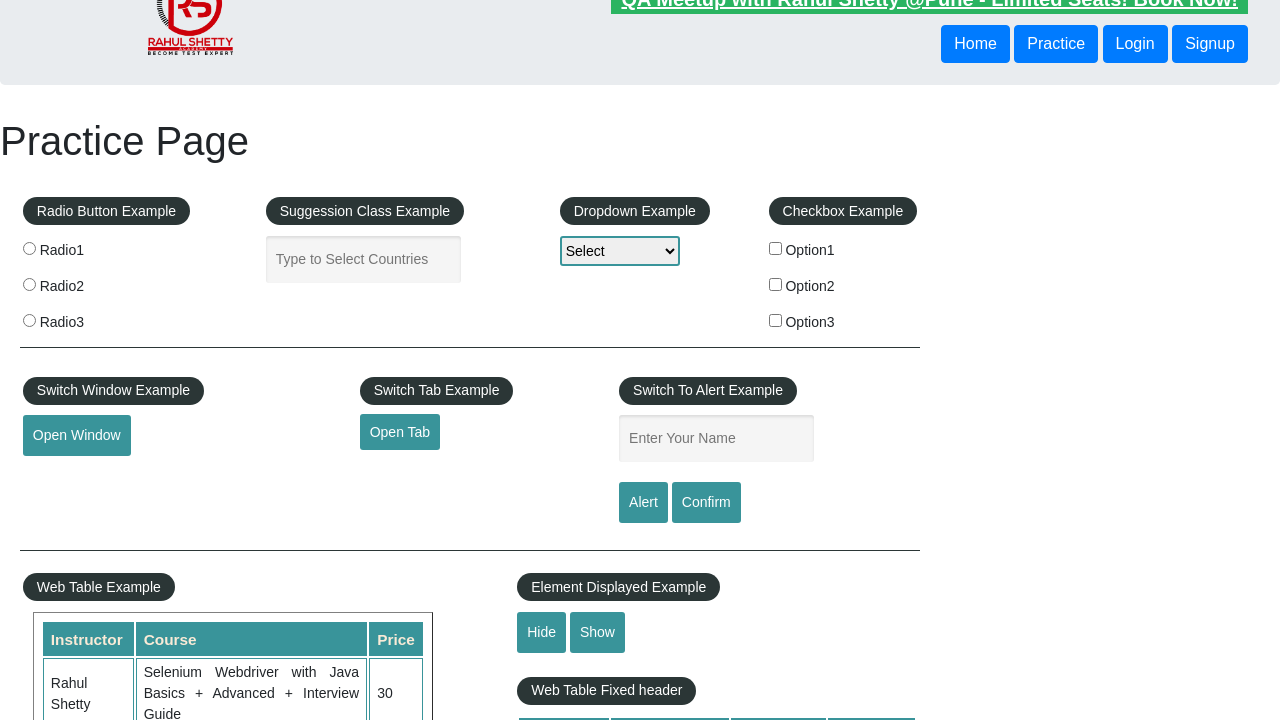
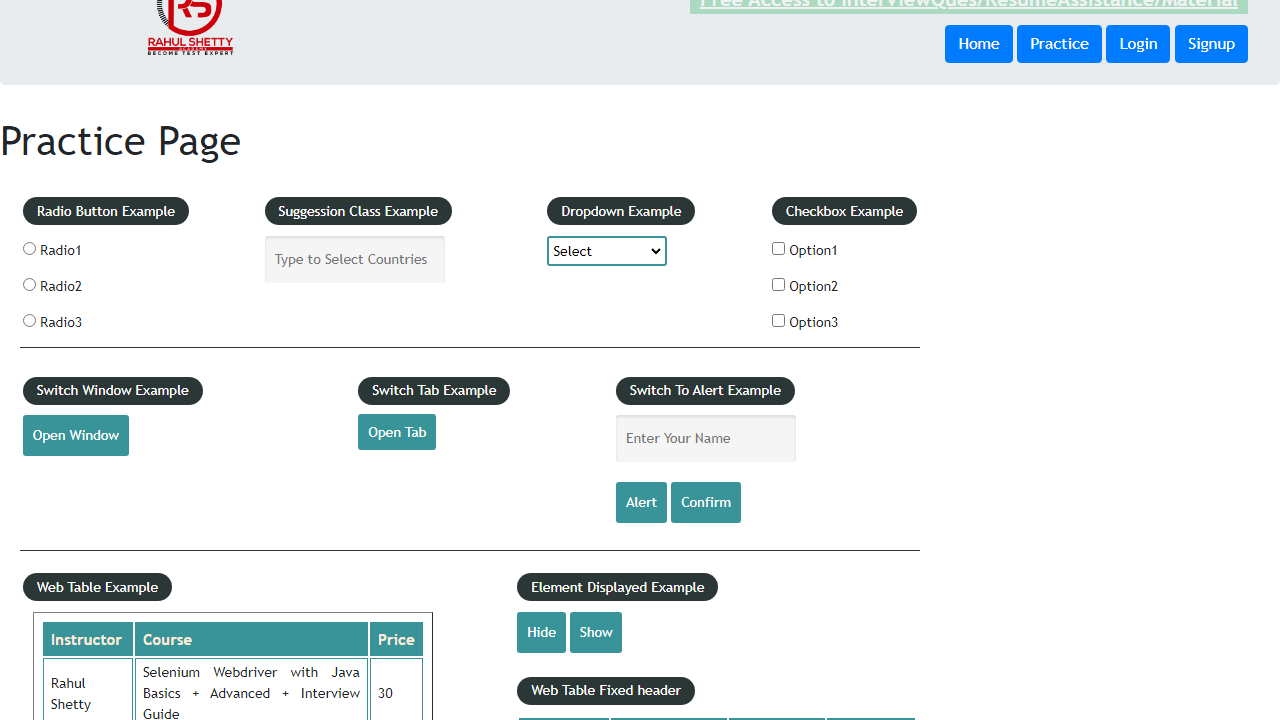
initial commit

diff --git a/tests/AutomationPractiseWebsiteTest.spec.js b/tests/AutomationPractiseWebsiteTest.spec.js
@@ -1,0 +1,70 @@
+const { test, expect } = require('@playwright/test');
+const {APPomManager}=require('./automationPractisePageObjects/APPomManager');
+const pageTitle = 'Automation Exercise';
+const signUpName = 'Tester';
+const signUpEmail = '[email redacted]'
+
+test('Register User', async ({ page }) => {
+
+ const appomManager= new APPomManager(page);
+    await page.goto('https://automationexercise.com/');
+
+    expect(await page.title()).toContain(pageTitle);
+    await page.locator("a[href='/login']").click();
+    const apLoginPage = appomManager.getApLoginPage();
+    await apLoginPage.fillupSignUpForm();
+
+    console.log(await page.title());
+
+    const apsignupPage= appomManager.getApSignupPage();
+    apsignupPage.fillSignUpDetailsForm();
+
+  
+
+    await page.locator(".btn.btn-primary").click();
+    await expect(page.locator("li:nth-child(10) a:nth-child(1)")).toContainText("Tester");
+    await page.locator("a[href='/delete_account']").click();
+    console.log(await page.title());
+    
+
+
+
+   
+
+
+});
+
+test('Verify All Products and product detail page',async({page})=>
+{
+    await page.goto('https://automationexercise.com/');
+    expect(await page.title()).toContain(pageTitle);
+    await page.locator("a[href='/products']").click();
+    var productsList = await page.locator("div.single-products");
+    
+    const productCount = await productsList.count();
+    for(let i=0;i<productCount;i++)
+    {
+        await expect(productsList.nth(i)).toBeVisible();
+       
+    };
+    
+    await page.locator("a:has-text('View Product')").first().click();
+    
+}
+);
+
+test('Download Invoice after purchase order',async({page})=>
+    {
+    await page.goto('https://automationexercise.com/');
+    expect(await page.title()).toContain(pageTitle);
+    await page.locator("a:has-text('Add to cart')").first().click();
+    const modalPopup = page.locator(".modal-content");
+    await modalPopup.waitFor({state:'visible'});
+    await modalPopup.locator("a:has-text('View Cart')").click();
+    
+    await page.keyboard.press('PageDown');
+    
+
+    }
+
+);

diff --git a/tests/automationPractisePageObjects/APSignUpPage.js b/tests/automationPractisePageObjects/APSignUpPage.js
@@ -1,0 +1,51 @@
+const{expect} = require('@playwright/test')
+
+class APSignUpPage {
+    constructor(page) {
+        this.page = page;
+        this.accountInformationlabel = page.locator("div.login-form h2:has-text('Enter Account Information')");
+        this.createPasswordField = page.locator("#password");
+        this.daysField = page.locator("#days");
+        this.monthField = page.locator("#months");
+        this.yearsField = page.locator("#years");
+        this.newsletterCheckBox = page.locator("#newsletter");
+        this.optionCheckBox = page.locator("#optin");
+        this.firstNametxtBox = page.locator("#first_name");
+        this.lastNameTextBox = page.locator("#last_name");
+        this.companyTextBox = page.locator("#company");
+        this.address1TextBox = page.locator("#address1");
+        this.address2TextBox = page.locator("#address2");
+        this.countryDropDown = page.locator("#country");
+        this.stateTextBox = page.locator("#state");
+        this.citytextBox = page.locator("#city");
+        this.zipcodetextBox = page.locator("#zipcode");
+        this.mobileTextBox = page.locator("#mobile_number");
+        this.createAccountButton = page.locator("button[data-qa='create-account']");
+    }
+
+
+    async fillSignUpDetailsForm() {
+         //await expect(page.locator("div.login-form h2:has-text('Enter Account Information')")).toContainText("Enter Account Information");
+        await expect(this.accountInformationlabel).toContainText("Enter Account Information");
+        await this.createPasswordField.fill("getHigh@5454");
+        await this.daysField.selectOption("12");
+        await this.monthField.selectOption("June");
+        await this.yearsField.selectOption("1984");
+        await this.newsletterCheckBox.check();
+        await this.optionCheckBox.check();
+        await expect(this.newsletterCheckBox).toBeChecked();
+        await this.firstNametxtBox.fill("Lucky");
+        await this.lastNameTextBox.fill("Sansova");
+        await this.companyTextBox.fill("ABCL");
+        await this.address1TextBox.fill("6656 GF");
+        await this.address2TextBox.fill("6656 GF");
+        await this.countryDropDown.selectOption("India");
+        await this.stateTextBox.fill("Haryana");
+        await this.citytextBox.fill("Faridabad");
+        await this.zipcodetextBox.fill("121001");
+        await this.mobileTextBox.fill("9911892292");
+        await this.createAccountButton.click();
+    }
+}
+
+module.exports={APSignUpPage};

diff --git a/tests/NaukriProfile.spec.js b/tests/NaukriProfile.spec.js
@@ -1,0 +1,45 @@
+const { test, expect } = require('@playwright/test');
+
+const profileHeadLine = "Experienced Testing Professional with over 10 Years in Manual & Automation Testing | Proficient in Playwright, Selenium, C#, JavaScript, SpecFlow, Cucumber, BDD, API Testing (RestSharp), Appium, Mobile Automation, Playwright | Immediate Joiner";
+
+test('naukri login', async ({ page }) => {
+    await page.goto("https://www.naukri.com/");
+    const landingPageTitle = await page.title();
+    expect(landingPageTitle).toBe("Jobs - Recruitment - Job Search - Employment - Job Vacancies - Naukri.com");
+    await page.getByTitle("Jobseeker Login").click();
+    await page.getByPlaceholder("Enter your active Email ID / Username").fill("[email redacted]");
+    await page.getByPlaceholder("Enter your password").fill("gethigh@84");
+    await page.locator("button[type='submit']").click();
+
+    const closeButton = await page.locator(".crossIcon.chatBot.chatBot-ic-cross");
+    if (await closeButton.isVisible()) {
+        await closeButton.click();
+    }
+    else
+    {
+       console.log("No Chatbot Appeared");
+    }    
+    await page.locator(".nI-gNb-drawer__icon").click();
+    await page.locator(".nI-gNb-info__sub-link").click();    
+    const editHeadline =await page.locator(".widgetHead").first();
+    await editHeadline.locator(".edit.icon").click();
+    const resumeHeadlineEditBox =await page.locator("#resumeHeadlineTxt");
+    resumeHeadlineEditBox.clear();
+    resumeHeadlineEditBox.fill(profileHeadLine);
+    await page.locator('button.btn-dark-ot[type="submit"]').click();
+    // await page.waitForTimeout(5000);
+
+
+    
+
+
+
+
+
+}
+
+
+
+);
+
+

diff --git a/tests/automationPractisePageObjects/APLoginPage.js b/tests/automationPractisePageObjects/APLoginPage.js
@@ -1,0 +1,32 @@
+const { expect } = require("@playwright/test");
+class APLoginPage
+{
+    constructor(page)
+    {
+        this.page = page;
+        this. signupForm = page.locator("div[class='signup-form'] h2");
+        this. pageTitle = 'Automation Exercise';
+         this.signUpName = 'Tester';
+        this. signUpEmail = '[email redacted]';
+        this.nameTextBox = page.locator("input[placeholder='Name']");
+        this.emailTextBox=page.locator("input[data-qa='signup-email']");
+        this.signUpButton=page.locator("button[data-qa='signup-button']");
+
+    }
+
+
+
+   async fillupSignUpForm()
+    {
+           await this. page.waitForSelector("div.signup-form h2", { state: 'visible' });
+            expect(await this.signupForm).toBeVisible();
+            await this.nameTextBox.fill(this.signUpName);
+            await this.emailTextBox.fill(this.signUpEmail);
+            await this.signUpButton.click();
+    }
+    
+
+
+}
+
+module.exports={APLoginPage};

diff --git a/tests/automationPractisePageObjects/APPomManager.js b/tests/automationPractisePageObjects/APPomManager.js
@@ -1,0 +1,24 @@
+const {APLoginPage}=require('./APLoginPage');
+const {APSignUpPage}=require('./APSignUpPage');
+
+
+class APPomManager {
+        constructor(page) {
+            this.page = page;
+            this.apLoginPage = new APLoginPage(this.page)
+            this.apsignupPage = new APSignUpPage(this.page);
+        }
+
+
+    getApLoginPage() {
+        return this.apLoginPage;
+
+    }
+
+
+    getApSignupPage() {
+        return this.apsignupPage;
+    }
+}
+
+module.exports={APPomManager}

diff --git a/tests/ClientAppPO.spec.js b/tests/ClientAppPO.spec.js
@@ -23,6 +23,7 @@ test.describe.serial(' Client App Login Tests', () => {
             const ordersHistoryPage = pomManager.getOrdersHistoryPage();
             await ordersHistoryPage.searchOrderAndSelect(orderId);
             expect(orderId.includes(await ordersHistoryPage.getOrderId())).toBeTruthy();
-        });
+        }
+    );
     }
 });

diff --git a/playwright.config.js b/playwright.config.js
@@ -21,6 +21,7 @@ module.exports = defineConfig({
   retries: process.env.CI ? 2 : 0,
   /* Opt out of parallel tests on CI. */
   workers: process.env.CI ? 1 : undefined,
+  
 
  /* time a test should wait brfore reporting failure*/
  
@@ -41,6 +42,7 @@ module.exports = defineConfig({
     /* Collect trace when retrying the failed test. See https://playwright.dev/docs/trace-viewer */
     //trace: 'on',
     trace: 'on-first-retry',
+    
   },
 
   /* Configure projects for major browsers */

diff --git a/playwright.config1.js b/playwright.config1.js
@@ -49,7 +49,7 @@ module.exports = defineConfig({
     {
       name: 'chromium',
       use: { ...devices['Desktop Chrome'] ,
-        headless : true,
+        headless : false,
         screenshot:'only-on-failure',
         trace: 'on-first-retry',
       },

diff --git a/tests/ClientApp.spec.js b/tests/ClientApp.spec.js
@@ -28,8 +28,6 @@ test('Browser Context - validate Error Login', async ({ page }) => {
     expect(productIsVisible).toBeTruthy();
     await page.locator("text=Checkout").click();
     await page.locator("[placeholder*='Country']").pressSequentially("ind");
-
-
     const CountryDropDown = await page.locator(".ta-results");
     await CountryDropDown.waitFor();
     const dropDownValueCount = await CountryDropDown.locator("button").count();

diff --git a/tests/FirstTest.spec.js b/tests/FirstTest.spec.js
@@ -8,7 +8,7 @@ test('First Playwright test', async ({ page }) => {
   console.log(await page.title());
   await expect(page).toHaveTitle("LoginPage Practise | Rahul Shetty Academy")
 
-  await page.locator("#username").fill("rahulshetty");
+  await page.locator("#username").fill("rahulshettyacademy");
   await page.locator("[type='password']").fill("learning");
   await page.locator("#signInBtn").click();
   console.log(await page.locator("[style*='block']").textContent());

diff --git a/tests/ValidationsVerification.spec.js b/tests/ValidationsVerification.spec.js
@@ -24,7 +24,7 @@ test('ScreenShot & visual Comparison',async({page})=>
   await expect(page.locator("#displayed-text")).toBeVisible();
   await page.locator('#displayed-text').screenshot({path:'PartialScreenshot.png'});
   await page.locator("#hide-textbox").click();
-  await page.screenshot({path:'screenshot.png'});//the path will create the screen shot of WHOLE PAGE and store the screenshot in you project 
+  await page.screenshot({path:'screenshot.png'});//the path will create the screen shot of WHOLE PAGE and store the screenshot in you project
   await expect(page.locator("#displayed-text")).toBeHidden();
 
 })